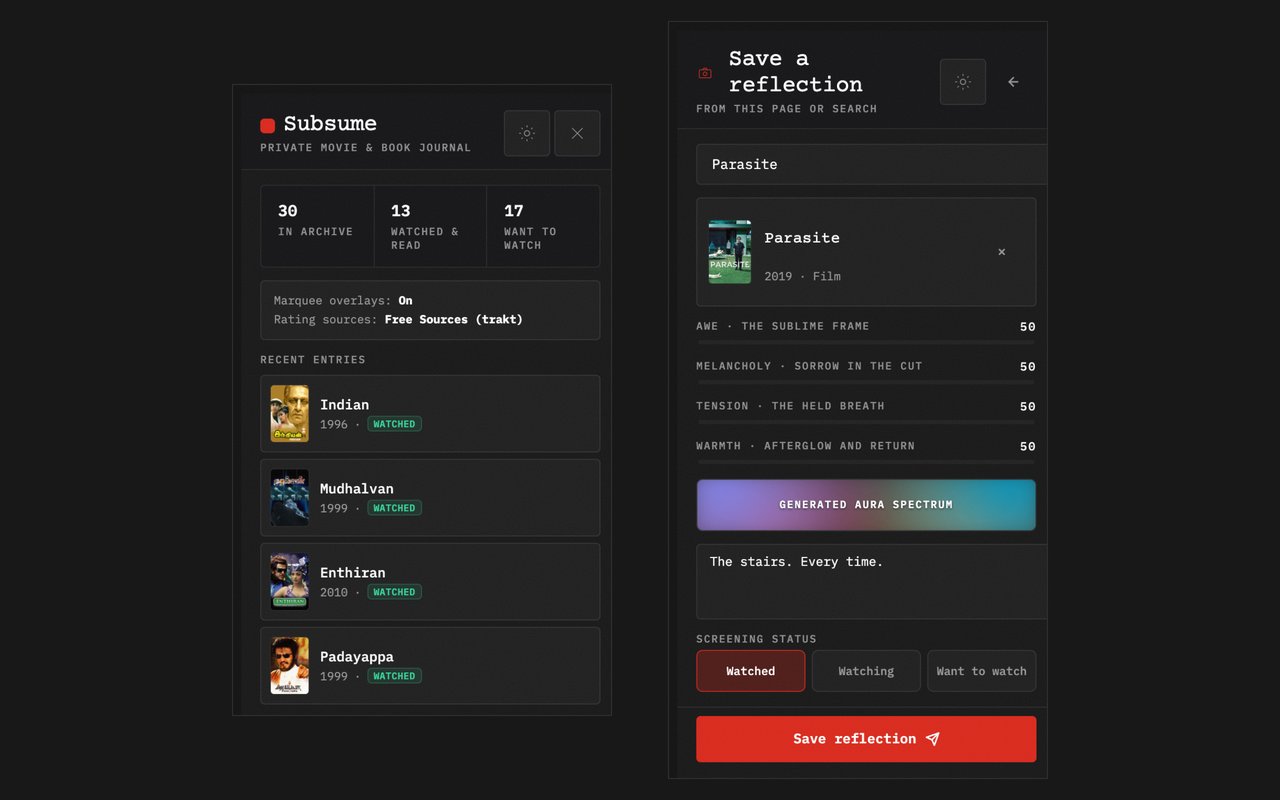
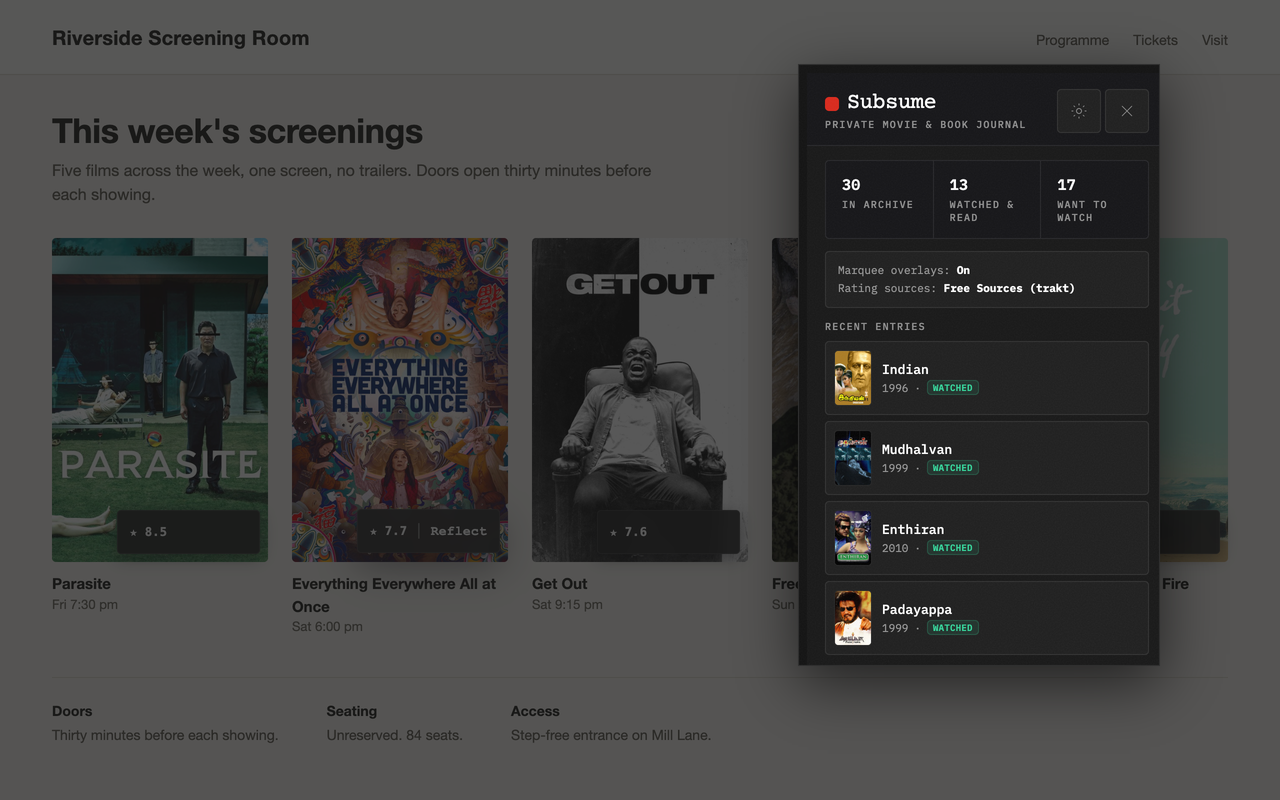
fix(store): retake frames from real dist output, drop capture workarounds

diff --git a/scripts/render-store-assets.py b/scripts/render-store-assets.py
@@ -22,7 +22,6 @@ import glob
 import http.server
 import os
 import shutil
-import subprocess
 import sys
 import tempfile
 import threading
@@ -36,17 +35,6 @@ SHOTS = ROOT / "store" / "screenshots"
 ASSETS = ROOT / "store" / "assets"
 SRC = ASSETS / "src"
 W, H = 1280, 800
-
-# The built popup.html mounts into #app but popup.tsx renders into #popup-root, so the
-# popup is blank when loaded as-is. This shim only renames the id inside the capture
-# harness so the real popup code can be photographed; no extension file is altered.
-POPUP_ROOT_SHIM = """
-new MutationObserver((_, o) => {
-  const el = document.getElementById('app');
-  if (el) { el.id = 'popup-root'; o.disconnect(); }
-}).observe(document, { childList: true, subtree: true });
-"""
-
 
 def find_browser() -> str:
     env = os.environ.get("SUBSUME_BROWSER")
@@ -128,25 +116,11 @@ def serve_dir(directory):
     return srv
 
 
-def build_capture_extension(tmp):
-    """Copy dist/ and swap in a classic (IIFE) content script; see the vite config for why."""
-    ext_dir = tmp / "ext"
-    shutil.copytree(DIST, ext_dir)
-    out = tmp / "content-out"
-    env = dict(os.environ, SUBSUME_CONTENT_OUT=str(out))
-    subprocess.run(
-        ["npx", "vite", "build", "-c", "scripts/store-assets-content.vite.config.mjs"],
-        cwd=ROOT, env=env, check=True, capture_output=True,
-    )
-    shutil.copy(out / "content.js", ext_dir / "content.js")
-    return ext_dir
-
-
 def capture_screenshots():
     SHOTS.mkdir(parents=True, exist_ok=True)
     profile = tempfile.mkdtemp(prefix="subsume-shots-")
     tmp = Path(tempfile.mkdtemp(prefix="subsume-shots-out-"))
-    ext_dir = build_capture_extension(tmp)
+    ext_dir = DIST
     site = tmp / "site"
     (site / "posters").mkdir(parents=True)
     srv = None
@@ -169,38 +143,11 @@ def capture_screenshots():
 
             # ---- 01 popup (two real popup states side by side) ----
             pop = ctx.new_page()
-            pop.add_init_script(POPUP_ROOT_SHIM)
             pop.set_viewport_size({"width": 360, "height": 600})
             pop.goto(f"{base}/ui/popup.html")
             settle(pop, 2500)
             pop.screenshot(path=str(tmp / "pop_home.png"))
-            # Taller than Chrome's 600px popup cap so the whole form fits in one frame.
-            pop.set_viewport_size({"width": 360, "height": 720})
-            settle(pop, 500)
-            pop.locator("button:has-text('Save a reflection')").first.click()
-            settle(pop, 800)
-            pop.locator("input").first.fill("Parasite")
-            settle(pop, 4000)
-            pop.get_by_text("2019", exact=True).first.click()
-            settle(pop, 1500)
-            pop.locator("textarea").first.fill("The stairs. Every time.")
-            pop.locator(".intent-pill", has_text="Watched").first.click()
-            pop.evaluate("document.querySelectorAll('*').forEach(e => { if (e.scrollTop) e.scrollTop = 0; }); window.scrollTo(0, 0)")
-            settle(pop, 800)
-            pop.screenshot(path=str(tmp / "pop_log.png"))
             pop.close()
-            comp = ctx.new_page()
-            comp.set_viewport_size({"width": W, "height": H})
-            comp.set_content(
-                f"""<body style="margin:0;background:#181818;width:{W}px;height:{H}px;display:flex;
-                align-items:center;justify-content:center;gap:56px">
-                <img src="{b64png(tmp / 'pop_home.png')}" style="height:630px;border:1px solid #303030">
-                <img src="{b64png(tmp / 'pop_log.png')}" style="height:756px;border:1px solid #303030"></body>"""
-            )
-            comp.wait_for_timeout(500)
-            comp.screenshot(path=str(tmp / "01.png"))
-            comp.close()
-            finish(tmp / "01.png", SHOTS / "01-popup.png", (W, H))
 
             # ---- 02 library ----
             app.set_viewport_size({"width": 1760, "height": 1100})
@@ -246,12 +193,36 @@ def capture_screenshots():
             srv = serve_dir(site)
             web = ctx.new_page()
             web.set_viewport_size({"width": W, "height": H})
+            errors = []
+            web.on("console", lambda m: errors.append(m.text) if m.type == "error" else None)
+            web.on("pageerror", lambda e: errors.append(str(e)))
             web.goto(f"http://127.0.0.1:{srv.server_address[1]}/index.html")
-            settle(web, 5000)
+            web.wait_for_function(
+                "document.querySelectorAll('[data-subsume-poster-scanned=matched]').length >= 5", timeout=30000
+            )
+            settle(web, 2500)
             box = web.locator(".poster").nth(1).bounding_box()
             web.mouse.move(box["x"] + box["width"] - 40, box["y"] + box["height"] - 30)
             settle(web, 1200)
+            badges = web.evaluate("document.querySelectorAll('[data-subsume-badge]').length")
+            print("plaque elements in DOM:", badges, "| page errors:", errors)
+            assert badges >= 3, "content script did not draw plaques"
+            assert not any("import statement" in e for e in errors), errors
             web.screenshot(path=str(tmp / "04.png"))
+            # ---- 01 popup: the real popup (true 360x600) over the same page, dimmed ----
+            comp = ctx.new_page()
+            comp.set_viewport_size({"width": W, "height": H})
+            comp.set_content(
+                f"""<body style="margin:0;width:{W}px;height:{H}px;position:relative;overflow:hidden;background:#181818">
+                <img src="{b64png(tmp / '04.png')}" style="position:absolute;inset:0;width:{W}px;height:{H}px">
+                <div style="position:absolute;inset:0;background:rgba(24,24,24,0.72)"></div>
+                <img src="{b64png(tmp / 'pop_home.png')}" style="position:absolute;top:64px;right:120px;width:360px;
+                height:600px;border:1px solid #303030;box-shadow:0 18px 60px rgba(0,0,0,0.6)"></body>"""
+            )
+            comp.wait_for_timeout(500)
+            comp.screenshot(path=str(tmp / "01.png"))
+            comp.close()
+            finish(tmp / "01.png", SHOTS / "01-popup.png", (W, H))
             finish(tmp / "04.png", SHOTS / "04-plaques.png", (W, H))
             web.close()
 

diff --git a/store/screenshots/README.md b/store/screenshots/README.md
@@ -6,10 +6,10 @@ Five 1280x800 PNG screenshots of the built extension, ready for the Chrome Web S
 
 | File | Size | Shows |
 |------|------|-------|
-| `01-popup.png` | 1280x800 | Toolbar popup: archive counts and recent entries (left), and the "Save a reflection" form with a searched title selected (right) |
+| `01-popup.png` | 1280x800 | The real toolbar popup at its true 360x600 size (archive counts, recent entries) composed over a dimmed copy of frame 04's page |
 | `02-library.png` | 1280x800 | Archive page with the sample library: poster cards, status, reflection excerpts |
 | `03-capture.png` | 1280x800 | Capture canvas, "What stayed with you?", with a note, emotion sliders and a 1-10 mark filled in |
-| `04-plaques.png` | 1280x800 | Museum plaques on poster images of a web page; the second plaque is hovered to show "Reflect" |
+| `04-plaques.png` | 1280x800 | Museum plaques drawn by the built content script on a local stand-in page; the second plaque is hovered to show "Reflect" |
 | `05-settings.png` | 1280x800 | Settings, "Browsing & overlays" tab (no API key fields visible) |
 
 Each PNG is under 1 MB.
@@ -20,17 +20,12 @@ All frames are captured from the real built UI (`dist/`) in a throwaway Chromium
 
 Things a reviewer should know:
 
-- **Frame 1** is a composite of two real popup captures on a dark canvas. The right-hand popup was rendered at 720px tall (Chrome caps real popups at 600px) so the whole form fits. The popup's page needs a one-line harness shim (see "Findings" below).
+- Frames use the real `dist/` output only, with no shims or alternate bundles.
+- **Frame 1** composes one real popup capture (360x600, the size Chrome gives it) onto a dimmed screenshot of the frame 4 page. The popup's "Save a reflection" form is deliberately not shown: its search box and note field are `width: 100%` without `box-sizing: border-box` in `src/ui/styles/popup.css`, so they overflow the popup's right edge.
 - **Frame 3**: the note text, slider positions and the "VIII" mark were typed/set by the capture script. Nothing was saved.
-- **Frame 4** is NOT a real website. It is a local stand-in page (`../assets/src/film-page.html`, a fictional "Riverside Screening Room" listing) served from `127.0.0.1`. Poster images are fetched at capture time from the sample library's poster URLs and are not committed. The plaques are drawn by Subsume's real content script recognising the "Title (Year)" alt text. This page was used because no third-party site should be shown or scraped. Ratings on the plaques come from the sample library.
-- Frames 2, 3 and 5 were rendered at a larger viewport (1760x1100 or 1920x1200 or 1600x1000, at 2x) and downscaled to 1280x800 so the whole layout fits in the frame.
-- Sample titles are the extension's built-in Indian and world cinema catalogue, so the poster art is real TMDb artwork. Confirm you are comfortable with that before upload, and the TMDb attribution in the listing text applies.
-
-## Findings while capturing (product bugs, not fixed here because this task was assets-only)
-
-1. **Popup renders blank.** `src/ui/popup.html` mounts into `#app` but `src/ui/popup.tsx` renders into `#popup-root`. The capture script injects a tiny shim that renames the id in the harness only.
-2. **Content script does not run in the shipped `dist/`.** `dist/content.js` is emitted as an ES module with `import` statements, and Chrome loads manifest content scripts as classic scripts ("Cannot use import statement outside a module"). So plaques and hover cards never appear in the built extension. For frame 4 the script builds the same `src/content/index.ts` as a single IIFE (`scripts/store-assets-content.vite.config.mjs`) and swaps it into a temp copy of `dist/`. The repo build is untouched. Fixing the build is needed before the plaque frame is true of the shipped extension.
-3. In the popup form the search field and note box run past the right edge of the 360px popup (visible in frame 1, right panel).
+- **Frame 4** is NOT a real website. It is a local stand-in page (`../assets/src/film-page.html`, a fictional "Riverside Screening Room" listing) served from `127.0.0.1`. Poster images are fetched at capture time from the sample library's poster URLs and are not committed. The script asserts that plaque elements exist in the DOM and that no "Cannot use import statement" error occurs. Ratings on the plaques come from the sample library.
+- Frames 2, 3 and 5 are rendered at a larger viewport at 2x and downscaled to 1280x800 so the whole layout fits.
+- Sample titles are the extension's built-in catalogue, so poster art is real TMDb artwork; the TMDb attribution in the listing text applies.
 
 ## Regenerate
 
@@ -56,11 +51,11 @@ python3 scripts/render-store-assets.py         # both
 
 `python3 scripts/test_cold_install_activation.py` was re-run against the final build. This is an **automated run, not a human-timed one**: the script clicks through onboarding on a fast machine with no reading time.
 
-- Result: passed. Onboarding to first reflection saved in **6.16 s** (script threshold 90 s). First Inscription Gate appeared, practice title opened the capture canvas, save closed it, the Weekly selection card appeared.
-- Its "content-script failure visibility" step injects its own `role="alert"` element and then finds it, so it does not test the content script itself (see finding 2).
+- Result: passed. Onboarding to first reflection saved in **5.35 s** (script threshold 90 s). First Inscription Gate appeared, practice title opened the capture canvas, save closed it, the Weekly selection card appeared.
+- Its "content-script failure visibility" step injects its own `role="alert"` element and then finds it, so it does not test the content script itself (the shipped content script is checked by frame 04 instead).
 
 ## Before upload
 
-- [ ] Resolve or accept the findings above
+- [ ] Fix the popup form input overflow (see frame 1 note), then consider adding the form to the popup frame
 - [ ] Confirm frames still match the version you ship (regenerate after UI changes)
 - [ ] No secrets in frame (none present in the current set)
